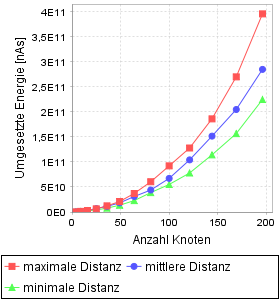
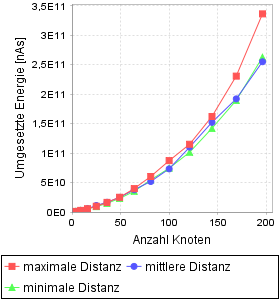
Flooding bugfix

diff --git a/src/Flooding/FloodingNetworkNode.java b/src/Flooding/FloodingNetworkNode.java
@@ -41,6 +41,7 @@ public class FloodingNetworkNode extends NetworkNode{
 	public void processRecivedMessage() {
 		Message recivedMsg = inputBuffer.removeFirst();
 		if(recivedMsg instanceof PayloadMessageWithRoute){
+			//System.out.println("Node " + this.id + ": recive msg from node " + recivedMsg.getSenderID() + ", transmission time: " + (simulator.getNetworkLifetime() - recivedMsg.getStartTransmissionTime()));	
 			
 			PayloadMessageWithRoute msg = new PayloadMessageWithRoute(((PayloadMessage) recivedMsg).getPayloadSourceAdress(), ((PayloadMessage) recivedMsg).getPayloadDestinationAdress(), null);
 			msg.setPayloadHash(((PayloadMessage)recivedMsg).getPayloadHash());
@@ -49,10 +50,12 @@ public class FloodingNetworkNode extends NetworkNode{
 			if(!doMessageAlreadyExists(msg)){
 				this.recivedMessages.add(msg);
 				if(msg.getPayloadDestinationAdress() == this.id){
+					
 					this.numberRecivedPayloadMsg++;
 					this.lastRecivedPayloadMessage = (PayloadMessage) recivedMsg;
 					recivedMsg.setEndTransmissionTime(simulator.getNetworkLifetime());
 					
+					//System.out.println("Node " + this.id + ": recive payload msg");
 					//System.out.print("Message path: ");
 					//msg = (PayloadMessageWithRoute) recivedMsg;
 					//LinkedList<Integer> msgRoute = msg.getMesageRoute();
@@ -62,6 +65,7 @@ public class FloodingNetworkNode extends NetworkNode{
 					//System.out.println();
 					
 				}else{
+					//System.out.println("Node "+ this.id + ": forward msg");
 					msg = (PayloadMessageWithRoute) recivedMsg;
 					msg.addNodeToRoute(this.id);
 					this.sendMessage(msg);
@@ -99,13 +103,15 @@ public class FloodingNetworkNode extends NetworkNode{
 
 	@Override
 	public void startSendingProcess(PayloadMessage msg) {
+		//System.out.println("DataVolume of msg to send: "+ msg.getDataVolume());
+		
 		msg.setStartTransmissionTime(simulator.getNetworkLifetime());
 		
 		PayloadMessageWithRoute newMsg = new PayloadMessageWithRoute(msg.getPayloadSourceAdress(), msg.getPayloadDestinationAdress(), msg.getPayload());
 		newMsg.setStartTransmissionTime(this.simulator.getNetworkLifetime());
 		newMsg.addNodeToRoute(this.id);
 		newMsg.setPayloadSize(msg.getPayloadSize());
-		newMsg.setDataVolume(msg.getPayloadDestinationAdress() *8);
+		newMsg.setDataVolume(msg.getPayloadSize()*8);
 		this.sendMessage(newMsg);
 	}
 	

diff --git a/src/SimulationNetwork/NetworkNode.java b/src/SimulationNetwork/NetworkNode.java
@@ -117,6 +117,7 @@ public abstract class NetworkNode {
 					// Currently transmitting a message
 					if (outgoingMsg.remainingTransmissionTime <= 0) {
 						// Transmission complete
+						//System.out.println(simulator.getNetworkLifetime() + " Knoten " + this.id + ": Send process complete, transmsmission energy: " + this.consumedEnergyInTransmissionMode);
 						outgoingMsg = null;
 						// TODO: shedule next action
 						availableEnery -= IDLE_MODE_POWER_CONSUMPTION * executionTime;
@@ -146,15 +147,19 @@ public abstract class NetworkNode {
 						if (isMediumAccessAllowed()) {
 							// Start message transmission
 							outgoingMsg = outputBuffer.removeFirst();
+							outgoingMsg.setStartTransmissionTime(simulator.getNetworkLifetime());
 							outgoingMsg.setRemainingTransmissionTime(Message.calculateTransmissionTime(outgoingMsg.getDataVolume()));
 							// System.out.println("Node " + id + "start sending
 							// message.");
+							availableEnery -= TRANSMISSION_MODE_POWER_CONSUMPTION * executionTime;
+							consumedEnergyInTransmissionMode += TRANSMISSION_MODE_POWER_CONSUMPTION * executionTime;
+							transmissionTime += executionTime;
+
 							for (NetworkNode node : connectedNodes) {
 								node.reciveMsg(outgoingMsg.clone());
-								availableEnery -= TRANSMISSION_MODE_POWER_CONSUMPTION * executionTime;
-								consumedEnergyInTransmissionMode += TRANSMISSION_MODE_POWER_CONSUMPTION * executionTime;
-								transmissionTime += executionTime;
 							}
+							
+							//System.out.println(simulator.getNetworkLifetime() + " Knoten " + this.id +": start send process, data volume: " + outgoingMsg.getDataVolume() + ", remaining transmission time: " + outgoingMsg.getRemainingTransmissionTime());
 						} else {
 							availableEnery -= IDLE_MODE_POWER_CONSUMPTION * executionTime;
 							consumedEnergyInIdleMode += IDLE_MODE_POWER_CONSUMPTION * executionTime;

diff --git a/src/SimulationNetwork/Simulator.java b/src/SimulationNetwork/Simulator.java
@@ -97,7 +97,7 @@ public abstract class Simulator {
 
 		char dataToSend[] = { 'H', 'E', 'L', 'O', ' ', 'W', 'O', 'R', 'L', 'D' };
 
-		PayloadMessage msg = new PayloadMessage(0, (destinationNodeId), dataToSend);
+		PayloadMessage msg = new PayloadMessage(sourceNodeId, (destinationNodeId), dataToSend);
 		networkNodes[sourceNodeId].startSendingProcess(msg);
 
 		do {
@@ -136,8 +136,11 @@ public abstract class Simulator {
 			
 			
 			consumedEnergyInIdleMode += networkNodes[id].getConsumedEnergyInIdleMode();
+			//System.out.println("Node " + id + ": consumedEnergy idle: " + networkNodes[id].getConsumedEnergyInIdleMode());
 			consumedEnergyInReciveMode += networkNodes[id].getConsumedEnergyInReciveMode();
 			consumedEnergyInTransmissionMode += networkNodes[id].getConsumedEnergyInTransmissionMode();
+			//System.out.println("Node " + id + ": time in transmissionMode: " + networkNodes[id].getTransmissionTime()  + ", consumedEnergy transmission: " + networkNodes[id].getConsumedEnergyInTransmissionMode());
+			
 		}
 		
 

diff --git a/src/DSDV/DsdvNetworkNode.java b/src/DSDV/DsdvNetworkNode.java
@@ -1,0 +1,30 @@
+package DSDV;
+
+import SimulationNetwork.NetworkNode;
+import SimulationNetwork.PayloadMessage;
+
+public class DsdvNetworkNode extends NetworkNode{
+
+	public DsdvNetworkNode(int id) {
+		super(id);
+		// TODO Auto-generated constructor stub
+	}
+	
+	protected void performeTimeDependentTasks(){
+		
+		//Send routing updates to neighbors
+	}
+
+	@Override
+	public void processRecivedMessage() {
+		// TODO Auto-generated method stub
+		
+	}
+
+	@Override
+	public void startSendingProcess(PayloadMessage tmpMsg) {
+		// TODO Auto-generated method stub
+		
+	}
+
+}

diff --git a/src/Simulator/Main.java b/src/Simulator/Main.java
@@ -10,7 +10,7 @@ public class Main {
 
 		
 		FloodingEvaluationUnit floodingEvaluationUnit = new FloodingEvaluationUnit();
-		floodingEvaluationUnit.evaluateSpeedAnalysis();
+		//floodingEvaluationUnit.evaluateSpeedAnalysis();
 		floodingEvaluationUnit.evaluateCostAnalysis();
 		//floodingEvaluationUnit.evaluateNetworkLivetimeStochasticSendBehavior();
 		

diff --git a/src/DSDV/ForwardTableEntry.java b/src/DSDV/ForwardTableEntry.java
@@ -1,0 +1,13 @@
+package DSDV;
+
+public class ForwardTableEntry {
+	
+	private int destination;
+	private int nextHop;
+	private int metric;
+	private long sequenceNumber;
+	private long install;
+	private int flag;
+	private int stalbeData;
+
+}

diff --git a/src/SimulationNetwork/PayloadMessage.java b/src/SimulationNetwork/PayloadMessage.java
@@ -85,6 +85,8 @@ public class PayloadMessage extends Message{
 		copy.setStartTransmissionTime(startTransmissionTime);
 		copy.setTimeToLive(timeToLive);
 		
+		copy.setDataVolume(dataVolume);
+		
 		return copy;
 	}
 
